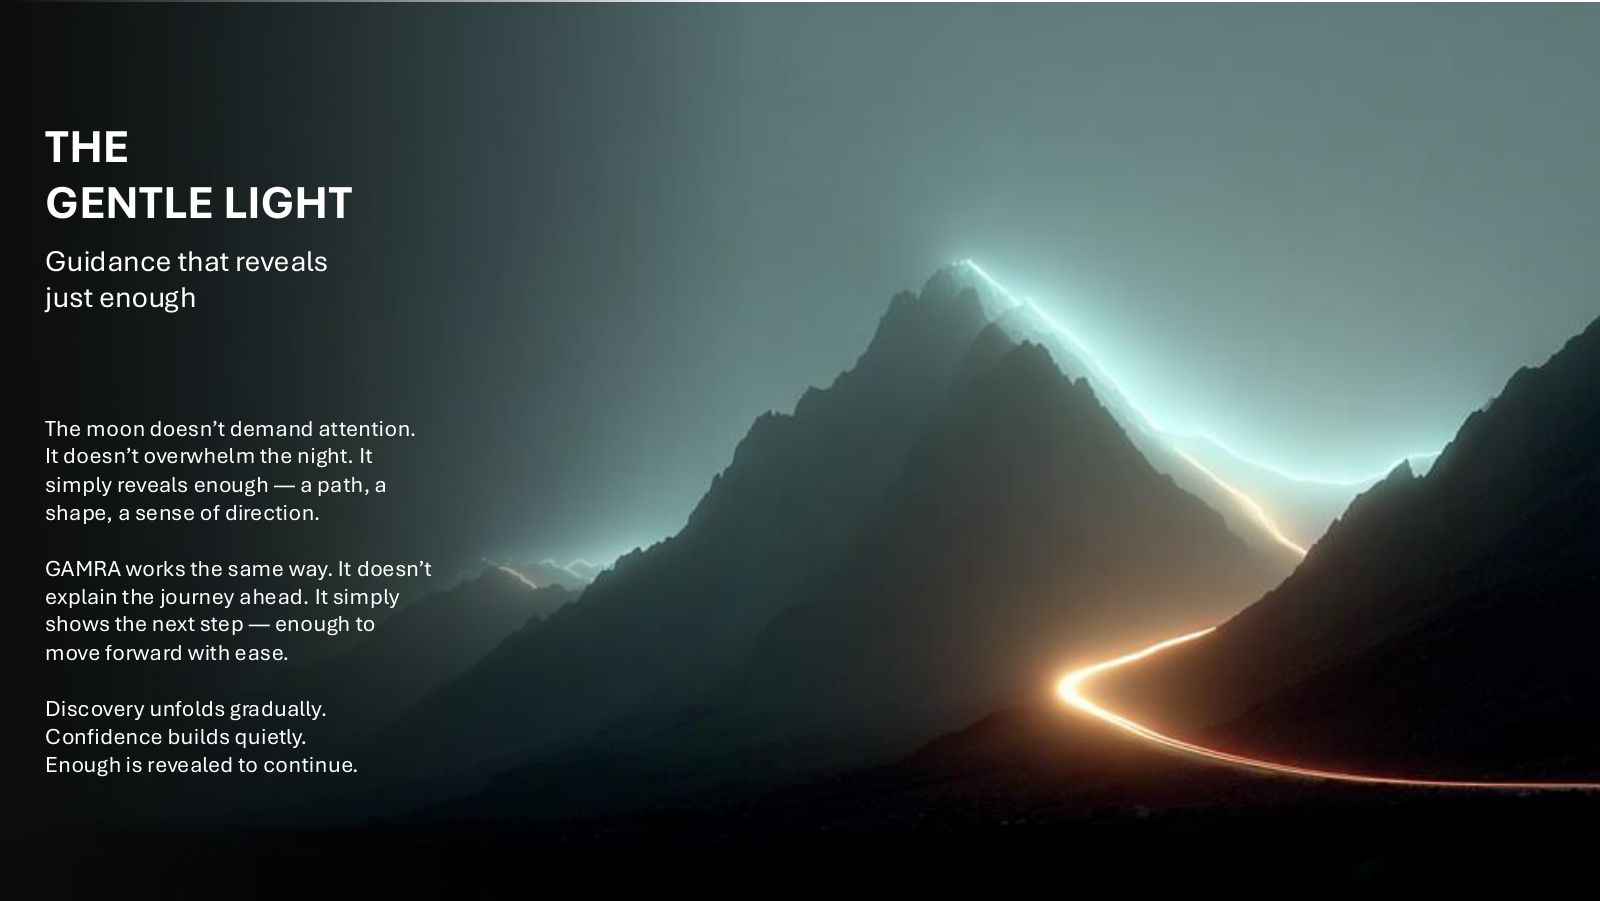
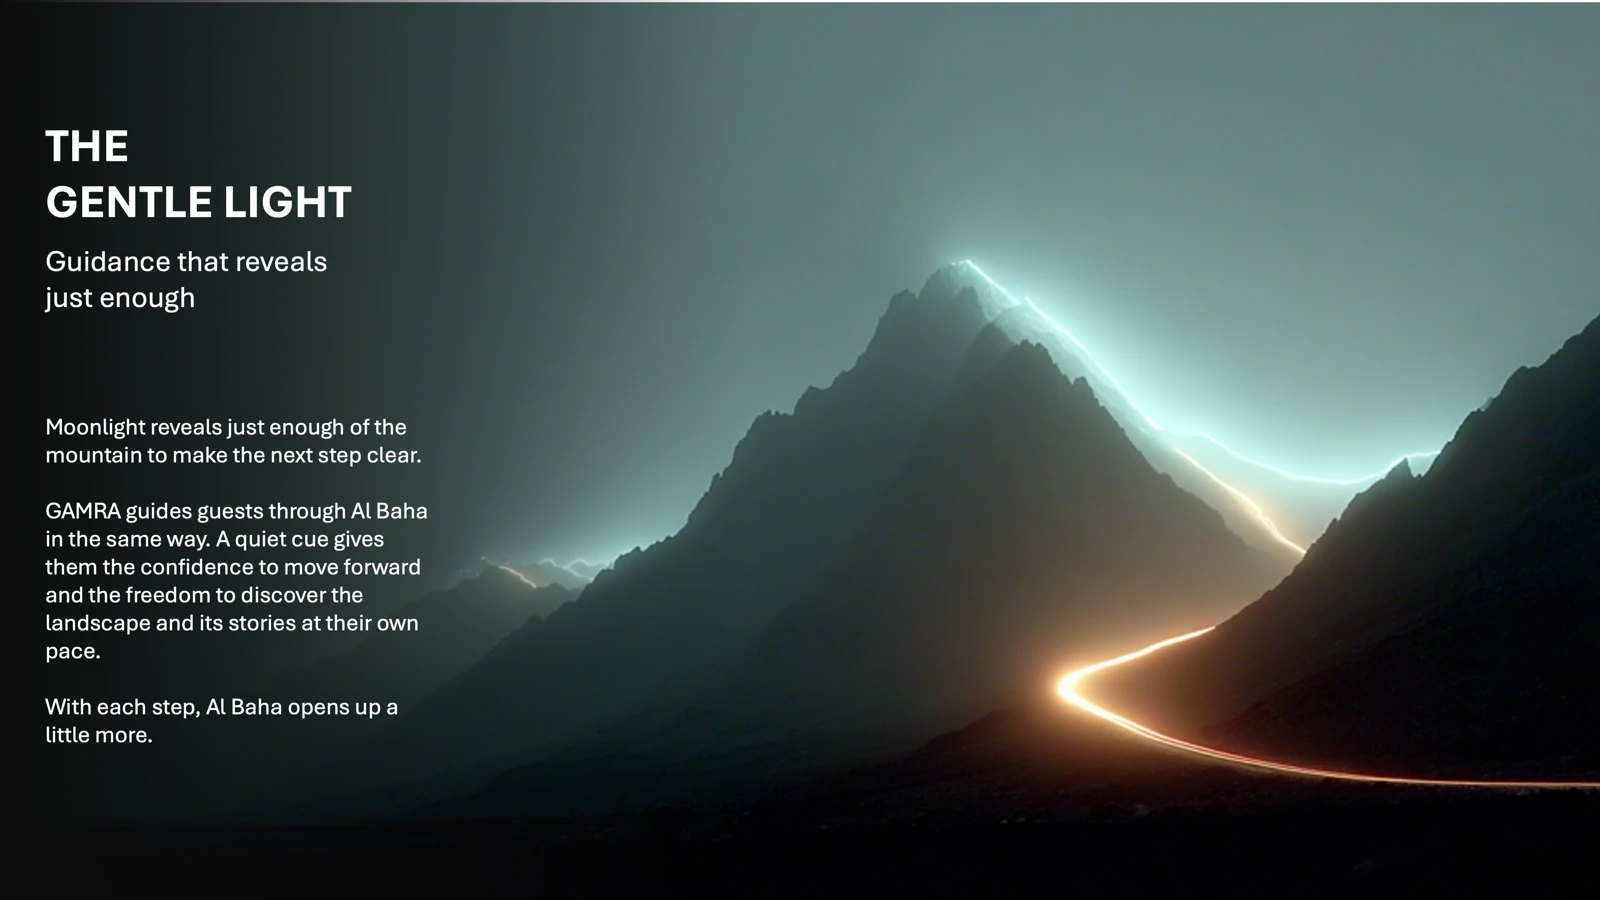
GAMRA case: brand idea slide, strategy and identity board, brand strategy canvas

diff --git a/index.html b/index.html
@@ -840,7 +840,9 @@ const C = {
       ideaText: L("GAMRA refers to the light of the full moon. One of the brand ideas, The Gentle Light, builds on it: guidance that reveals just enough to take the next step.",
                   "تشير «قمرة» إلى ضوء القمر حين يكتمل. وتبني عليه إحدى أفكار العلامة، «الضوء الهادئ»: إرشادٌ يكشف ما يكفي للخطوة التالية."),
       media: [
-        { src: "gamra-idea.jpg", w: 1600, h: 901, cap: L("The Gentle Light, one of 14 brand ideas", "«الضوء الهادئ»، إحدى 14 فكرة للعلامة") },
+        { src: "gamra-idea.jpg", w: 1600, h: 900, cap: L("The brand idea: The Gentle Light. Guidance that reveals just enough.", "فكرة العلامة: «الضوء الهادئ». إرشادٌ يكشف ما يكفي.") },
+        { src: "gamra-board.jpg", w: 2000, h: 1125, cap: L("Brand strategy and identity: the four layers behind the logo, the brand idea and the final mark", "استراتيجية العلامة وهويتها: الطبقات الأربع وراء الشعار، وفكرة العلامة، والشعار النهائي") },
+        { src: "gamra-canvas.jpg", w: 2000, h: 1125, cap: L("Brand strategy canvas: the vision, mission and values, with internal strategy shaded", "لوحة استراتيجية العلامة: الرؤية والرسالة والقيم، مع تظليل الاستراتيجية الداخلية") },
         { src: "gamra-role.jpg", w: 1600, h: 901, cap: L("GAMRA’s role between ASFAR and Mantis", "دور قمرة بين أسفار ومانتس") },
         { src: "gamra-flow.jpg", w: 1600, h: 901, cap: L("Wayfinding flows for guests and day visitors", "مسارات الإرشاد للنزلاء والزوار") }
       ]
